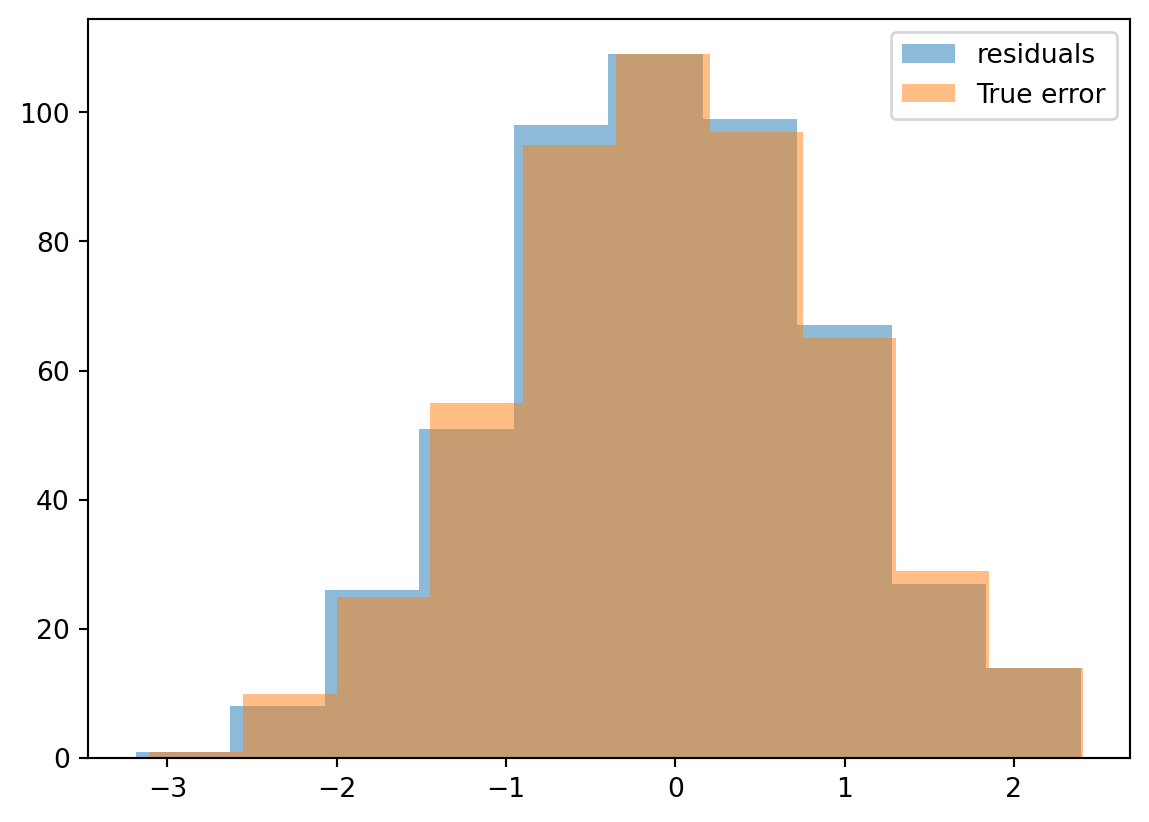
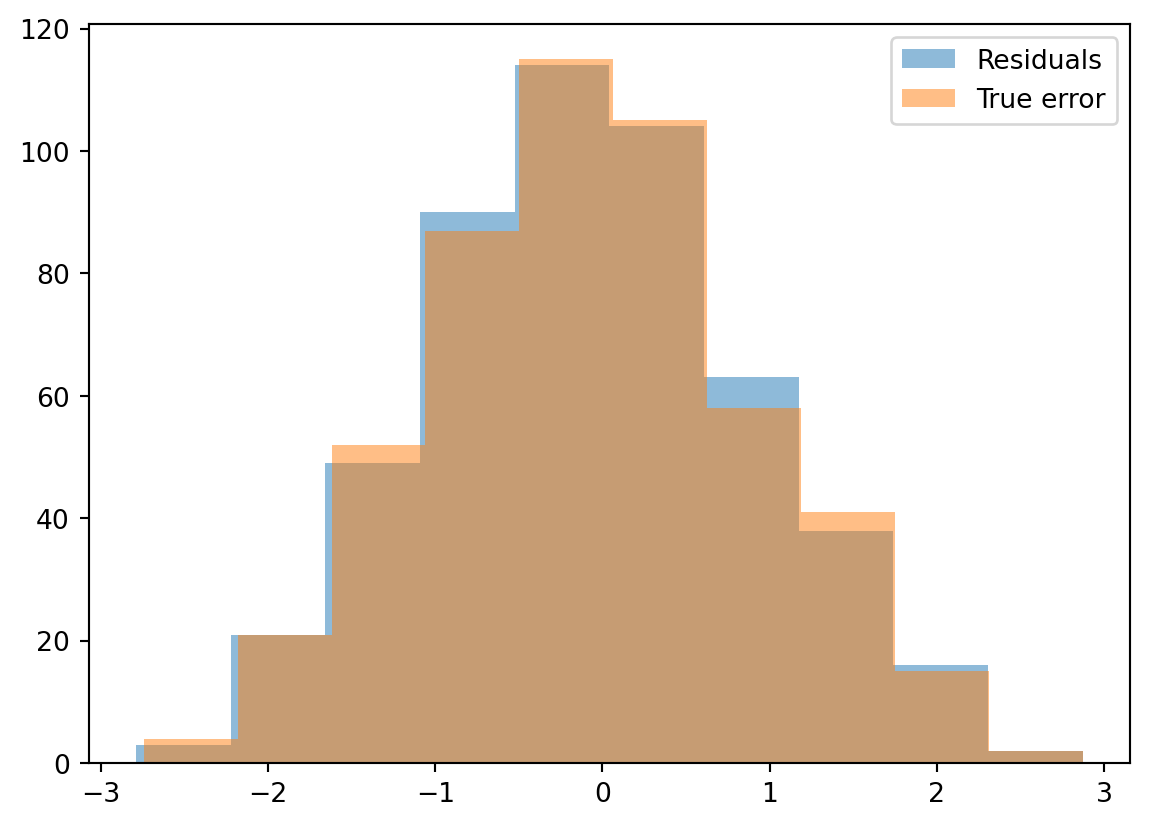
lille slå fejl

diff --git a/docs/Projects/Running least squares.html b/docs/Projects/Running least squares.html
@@ -250,7 +250,7 @@ window.Quarto = {
 <p>However, one can also use these techniques for the fast implementation of a sliding window estimator or simply to update a linear model as new data arrives.</p>
 <p>I will create two implementations: one where I use this for rolling prediction, and another that implements a sliding window.</p>
 <p>For the sliding window, it is necessary not only to add the new row but also to remove the old one.</p>
-<div id="0151c04f" class="cell" data-execution_count="1">
+<div id="ff6e66cb" class="cell" data-execution_count="1">
 <details class="code-fold">
 <summary>Code</summary>
 <div class="sourceCode cell-code" id="cb1"><pre class="sourceCode python code-with-copy"><code class="sourceCode python"><span id="cb1-1"><a href="#cb1-1" aria-hidden="true" tabindex="-1"></a><span class="im">import</span> numpy <span class="im">as</span> np</span>
@@ -341,7 +341,7 @@ window.Quarto = {
 <span id="cb1-86"><a href="#cb1-86" aria-hidden="true" tabindex="-1"></a>test_get_prediction()</span></code><button title="Copy to Clipboard" class="code-copy-button"><i class="bi"></i></button></pre></div>
 </details>
 </div>
-<div id="da33f488" class="cell" data-execution_count="2">
+<div id="b93c28c2" class="cell" data-execution_count="2">
 <details class="code-fold">
 <summary>Code</summary>
 <div class="sourceCode cell-code" id="cb2"><pre class="sourceCode python code-with-copy"><code class="sourceCode python"><span id="cb2-1"><a href="#cb2-1" aria-hidden="true" tabindex="-1"></a><span class="kw">def</span> rolling_prediction(x: <span class="bu">list</span>, y: <span class="bu">list</span>, starting_length: <span class="bu">int</span>):</span>
@@ -387,7 +387,7 @@ window.Quarto = {
 <h1>Testing the Application</h1>
 <p>Since the underlying model is not changing, this provides a straightforward way to test the model. The residuals should closely resemble the errors.</p>
 <p>However, they will not be identical, as this would require the coefficients to be perfectly accurate.</p>
-<div id="da355585" class="cell" data-execution_count="3">
+<div id="adec1179" class="cell" data-execution_count="3">
 <details class="code-fold">
 <summary>Code</summary>
 <div class="sourceCode cell-code" id="cb3"><pre class="sourceCode python code-with-copy"><code class="sourceCode python"><span id="cb3-1"><a href="#cb3-1" aria-hidden="true" tabindex="-1"></a><span class="im">import</span> warnings</span>
@@ -407,13 +407,13 @@ window.Quarto = {
 <span id="cb3-15"><a href="#cb3-15" aria-hidden="true" tabindex="-1"></a>plt.hist(result[<span class="st">'los_score'</span>],alpha<span class="op">=</span><span class="fl">0.5</span>)</span>
 <span id="cb3-16"><a href="#cb3-16" aria-hidden="true" tabindex="-1"></a></span>
 <span id="cb3-17"><a href="#cb3-17" aria-hidden="true" tabindex="-1"></a>plt.hist(error[(start_val):],alpha<span class="op">=</span><span class="fl">0.5</span>)</span>
-<span id="cb3-18"><a href="#cb3-18" aria-hidden="true" tabindex="-1"></a>plt.legend([<span class="st">"residuals"</span>, <span class="st">"True error"</span>])</span>
+<span id="cb3-18"><a href="#cb3-18" aria-hidden="true" tabindex="-1"></a>plt.legend([<span class="st">"Residuals"</span>, <span class="st">"True error"</span>])</span>
 <span id="cb3-19"><a href="#cb3-19" aria-hidden="true" tabindex="-1"></a>plt.show()</span></code><button title="Copy to Clipboard" class="code-copy-button"><i class="bi"></i></button></pre></div>
 </details>
 <div class="cell-output cell-output-display">
 <div>
 <figure class="figure">
-<p><img src="Running least squares_files/figure-html/cell-4-output-1.png" width="575" height="411" class="figure-img"></p>
+<p><img src="Running least squares_files/figure-html/cell-4-output-1.png" width="575" height="414" class="figure-img"></p>
 </figure>
 </div>
 </div>
@@ -422,7 +422,7 @@ window.Quarto = {
 <section id="when-the-application-fails" class="level1">
 <h1>When the Application Fails</h1>
 <p>The reader should note that I have not included an intercept in the data-generating process. Below, I have conducted the same test, but this time I have added a constant to the expression.</p>
-<div id="6c667c55" class="cell" data-execution_count="4">
+<div id="a09fe9e8" class="cell" data-execution_count="4">
 <details class="code-fold">
 <summary>Code</summary>
 <div class="sourceCode cell-code" id="cb4"><pre class="sourceCode python code-with-copy"><code class="sourceCode python"><span id="cb4-1"><a href="#cb4-1" aria-hidden="true" tabindex="-1"></a><span class="im">import</span> warnings</span>
@@ -442,7 +442,7 @@ window.Quarto = {
 <span id="cb4-15"><a href="#cb4-15" aria-hidden="true" tabindex="-1"></a>plt.hist(result[<span class="st">'los_score'</span>],alpha<span class="op">=</span><span class="fl">0.5</span>)</span>
 <span id="cb4-16"><a href="#cb4-16" aria-hidden="true" tabindex="-1"></a></span>
 <span id="cb4-17"><a href="#cb4-17" aria-hidden="true" tabindex="-1"></a>plt.hist(error[(start_val):],alpha<span class="op">=</span><span class="fl">0.5</span>)</span>
-<span id="cb4-18"><a href="#cb4-18" aria-hidden="true" tabindex="-1"></a>plt.legend([<span class="st">"residuals"</span>, <span class="st">"True error"</span>])</span>
+<span id="cb4-18"><a href="#cb4-18" aria-hidden="true" tabindex="-1"></a>plt.legend([<span class="st">"Residuals"</span>, <span class="st">"True error"</span>])</span>
 <span id="cb4-19"><a href="#cb4-19" aria-hidden="true" tabindex="-1"></a>plt.show()</span></code><button title="Copy to Clipboard" class="code-copy-button"><i class="bi"></i></button></pre></div>
 </details>
 <div class="cell-output cell-output-display">
